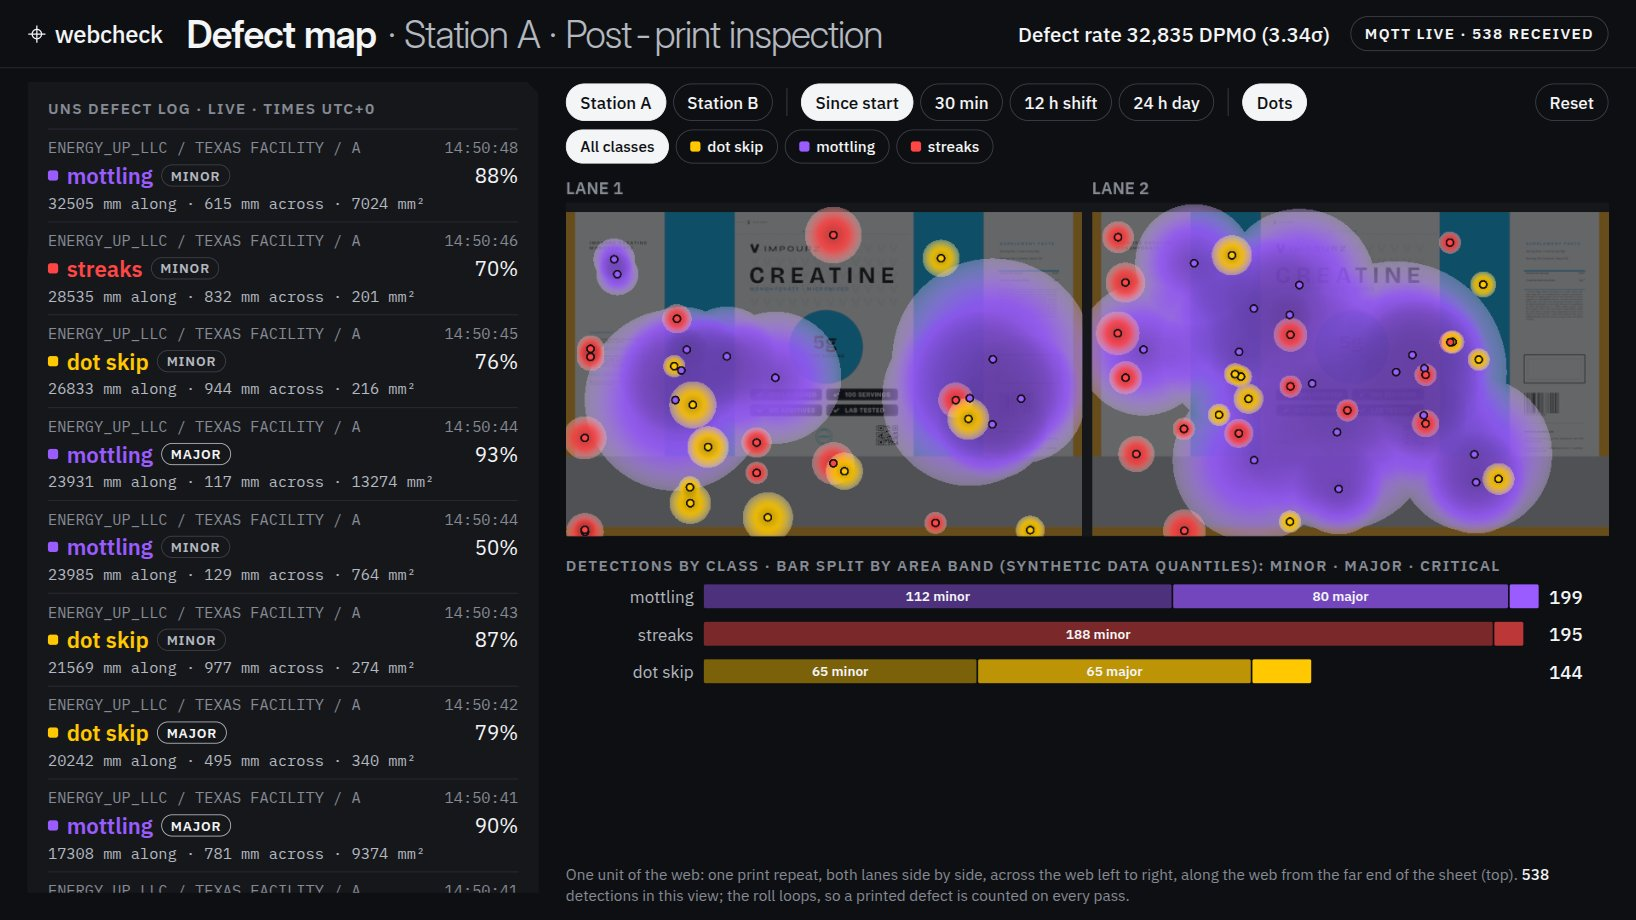
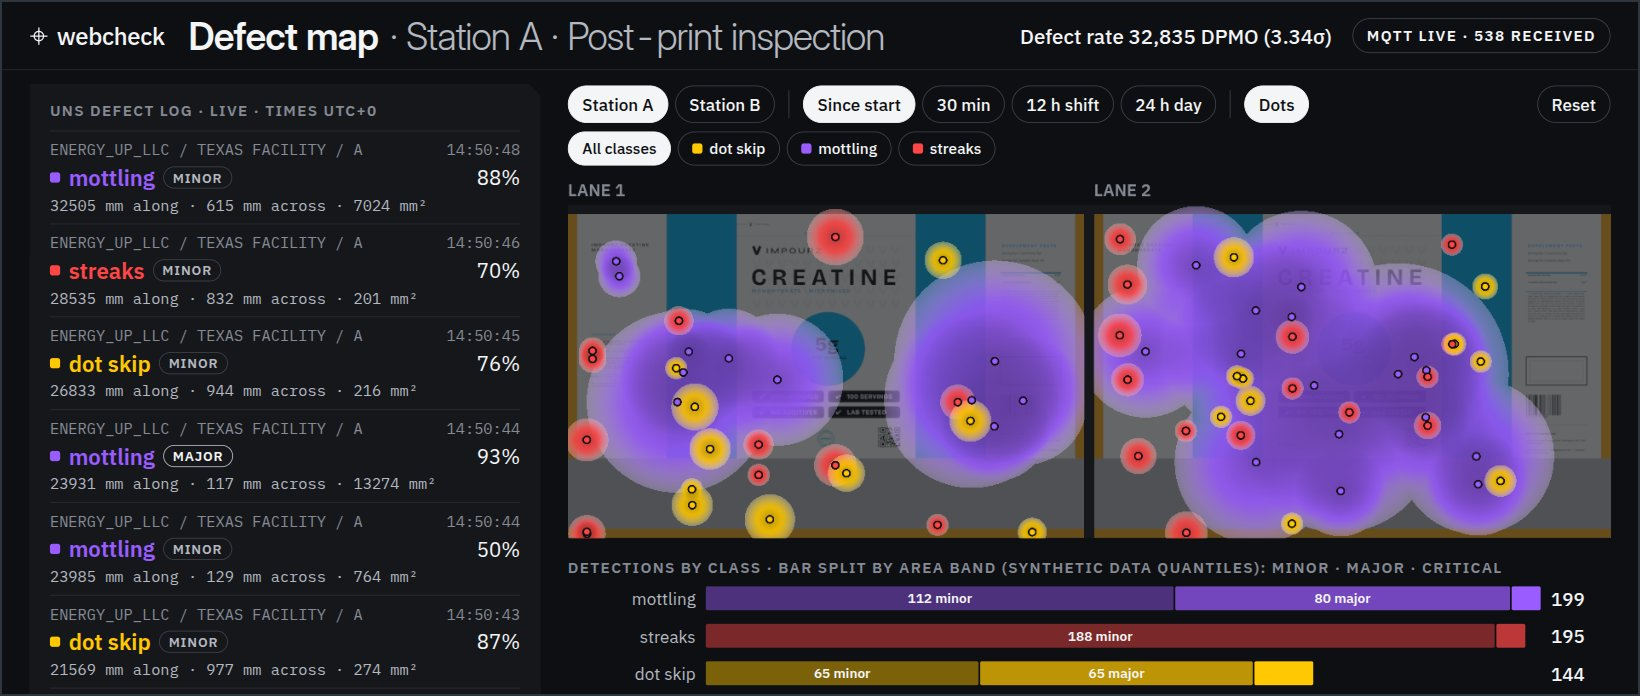
docs: README layout (wordmark, captioned screens, note first); ci/ removed

diff --git a/README.md b/README.md
@@ -1,6 +1,9 @@
 <div align="center">
 
-# ⌖ webcheck
+<picture>
+  <source media="(prefers-color-scheme: dark)" srcset="assets/wordmark-dark.svg">
+  <img src="assets/wordmark-light.svg" alt="webcheck" width="300">
+</picture>
 
 **Print-defect inspection for flexible-packaging web, at line speed on a Jetson Orin Nano.**
 
@@ -14,11 +17,17 @@ An anomaly gate and a defect detector in cascade, a live operator HMI, and a def
 [![Edge Impulse](https://img.shields.io/badge/models-Edge%20Impulse-3B47C2.svg)](https://studio.edgeimpulse.com/public/1147680/latest)
 [![Test frames](https://img.shields.io/badge/%F0%9F%A4%97%20test%20frames-CC--BY--4.0-FFD21E.svg)](https://huggingface.co/datasets/martinsawojide/webcheck-test-frames)
 
-[Quick start](#quick-start) · [How it works](#how-it-works) · [Performance](#performance) · [Full guide](GUIDE.md)
+[Quick start](#quick-start) · [How it works](#how-it-works) · [Screens](#screens) · [Performance](#performance) · [Full guide](GUIDE.md)
 
-<img src="assets/hmi.jpg" alt="The inspection HMI: the web with the latest defect, per-class counts and model timings" width="100%">
+<br>
+
+<img src="assets/hmi-banner.jpg" alt="The inspection HMI's header and counters over the printed web" width="100%">
 
 </div>
+
+> [!NOTE]
+> A prototype. The models are trained on synthetic renders of a fictional product, and the demo replays the held-out
+> synthetic test frames as if they came off a line. All brands, logos and codes in the artwork are fictional.
 
 ## Features
 
@@ -33,11 +42,23 @@ An anomaly gate and a defect detector in cascade, a live operator HMI, and a def
 - **One launcher for Linux, macOS and Windows:** start the demo on the board, or drive the board from a PC over ssh.
 - **Runs without a Jetson** through ONNX Runtime on a direct GPU, WebGPU or the CPU, slower, with the same pages.
 
-<img src="assets/defect-map.jpg" alt="The defect map: the live defect log, the per-class heatmap over one print repeat, and counts by class and severity" width="100%">
+## Screens
 
-> [!NOTE]
-> A prototype. The models are trained on synthetic renders of a fictional product, and the demo replays the held-out
-> synthetic test frames as if they came off a line. All brands, logos and codes in the artwork are fictional.
+<p align="center">
+  <img src="assets/hmi.jpg" alt="The inspection HMI: the web with the latest defect, per-class counts and model timings" width="100%">
+  <br>
+  <sub><b>Inspection HMI</b> (port 8080): station A at 123 m/min. Inspected slices and metres, defects per class, the
+  latest defect with its gate score, and both models' timings.</sub>
+</p>
+
+<br>
+
+<p align="center">
+  <img src="assets/defect-map.jpg" alt="The defect map: the live defect log, the per-class heatmap over one print repeat, and counts by class and severity" width="100%">
+  <br>
+  <sub><b>Defect map</b> (port 8090): the MQTT defect log streaming live, every detection folded onto one print repeat
+  as a per-class heatmap, and counts by class and severity with the defect rate in DPMO.</sub>
+</p>
 
 ## Quick start
 

diff --git a/GUIDE.md b/GUIDE.md
@@ -39,7 +39,7 @@ up at 330 m/min but not at 450 m/min (10.8 of the 13.9 slices a second it needs;
 | `scripts/download_test_frames.py` | Download the test frames from Hugging Face |
 | `scripts/bench_cascade.py`, `scripts/bench_overlap.py`, `scripts/score_split.py` | Benchmarks and the scorer that checks the defect log against ground truth |
 | `scripts/check_device.py`, `scripts/reference/` | Checks a machine the project has not run on against the Jetson's results |
-| `scripts/webgpu_op_check.py`, `ci/webgpu-linux.yml` | Checks that every operator of the models runs on WebGPU; the CI workflow that runs it on Linux |
+| `scripts/webgpu_op_check.py` | Checks that every operator of the models runs on WebGPU |
 | `pyproject.toml`, `uv.lock` | The Python environment (uv) |
 
 ## What you need
@@ -164,8 +164,7 @@ It runs 8 published test frames through the models and compares every gate score
 results (`scripts/reference/board_parity.json`), times each tile, then holds the real HMI at 4 to 12 m/min to see
 which speed keeps up (about 7 minutes; `--ladder ""` skips it). Please send back the report it writes,
 `check_report.json`: it holds the device, the route, the comparison, the timings and the ladder, and nothing else.
-`scripts/webgpu_op_check.py` checks that every operator of the models runs on WebGPU. `ci/webgpu-linux.yml` runs it
-on Linux through a software Vulkan driver; copy it to `.github/workflows/` to run it on GitHub Actions.
+`scripts/webgpu_op_check.py` checks that every operator of the models runs on WebGPU.
 
 ## Settings
 
